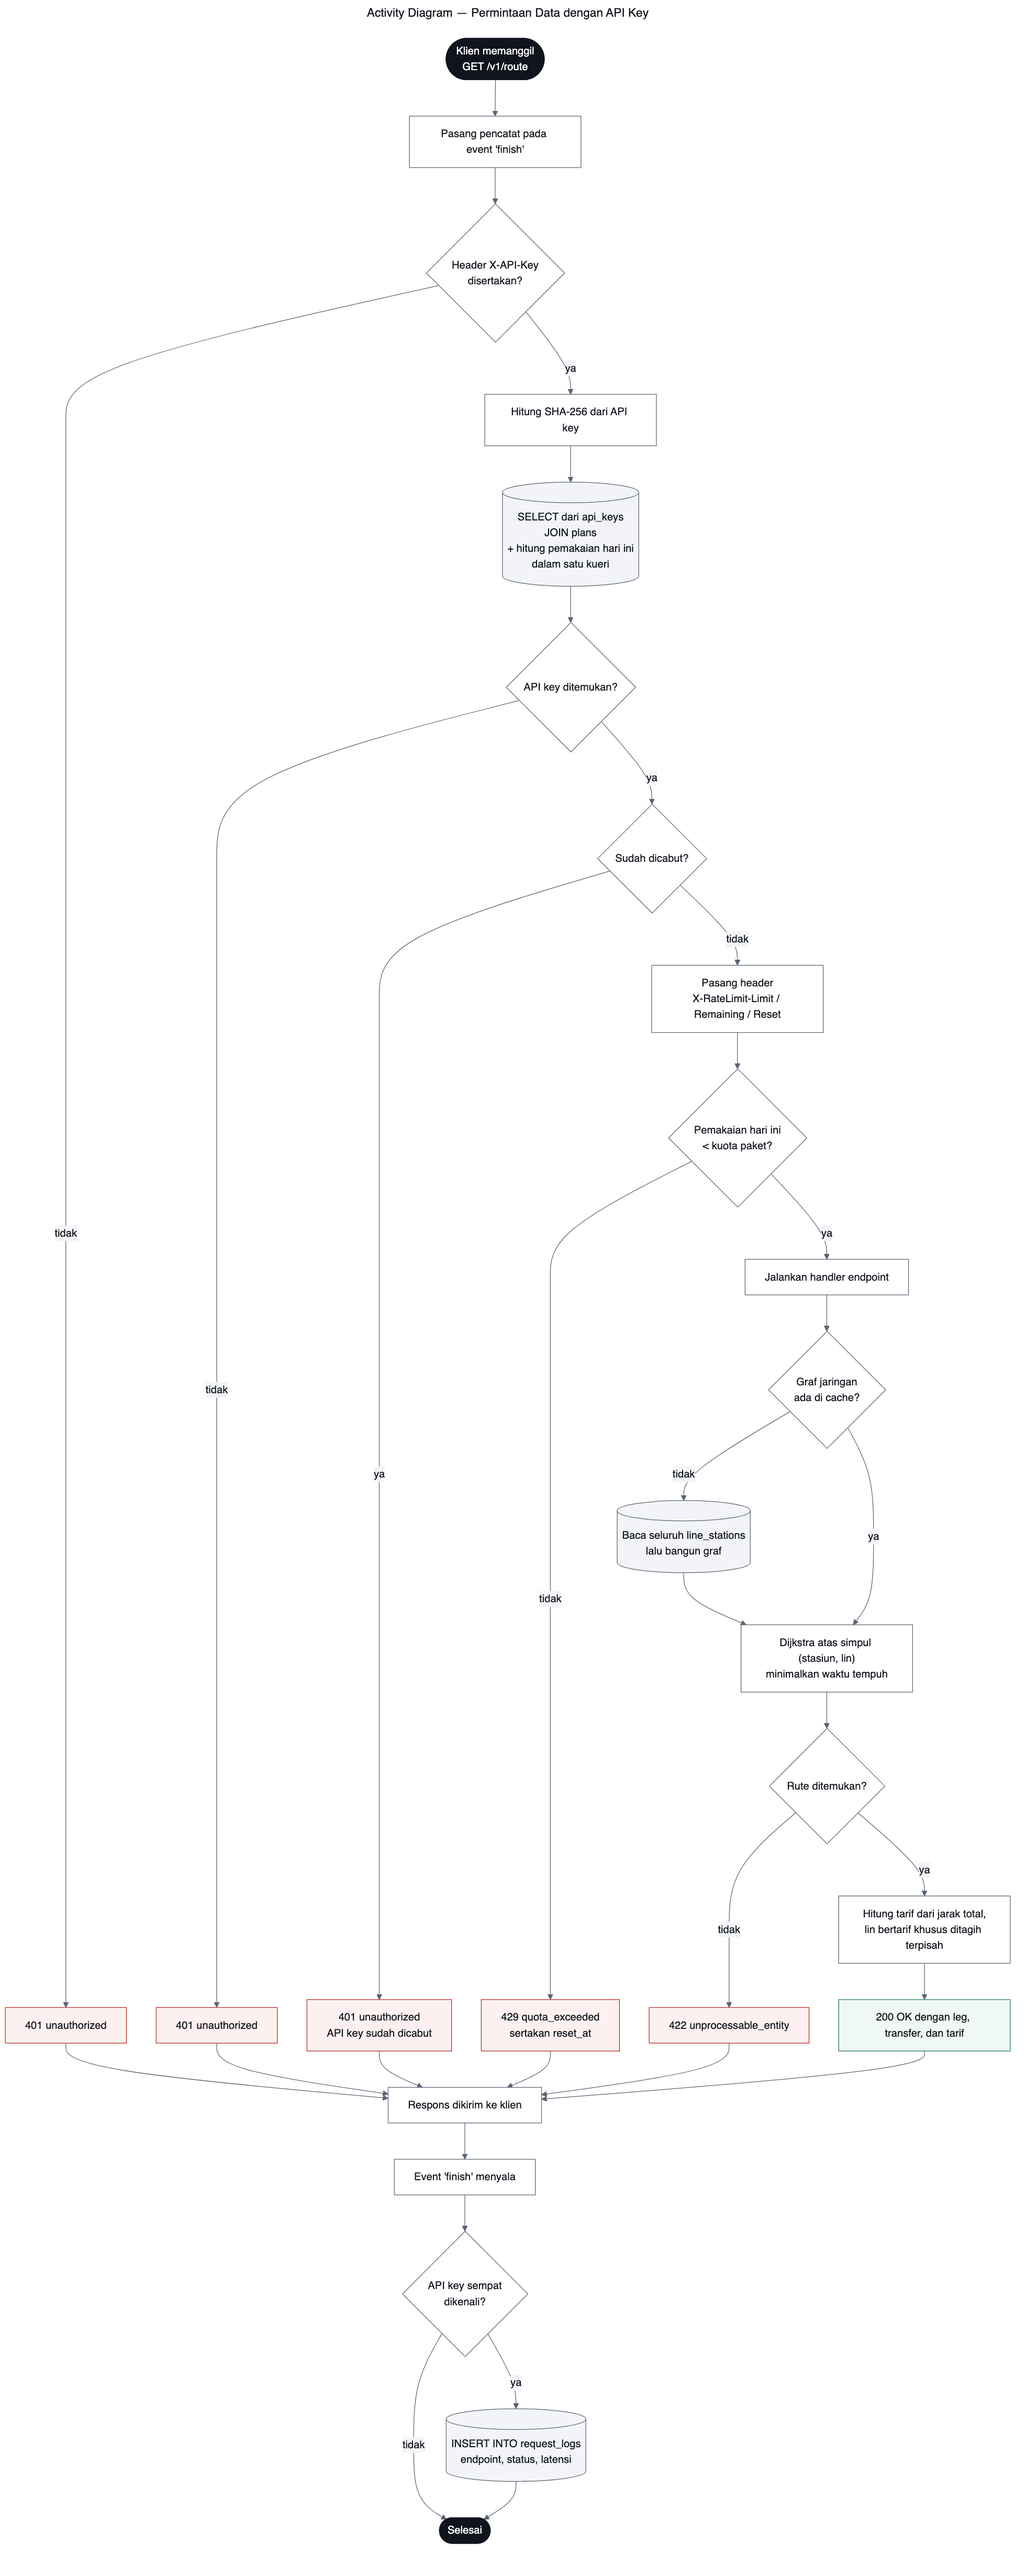
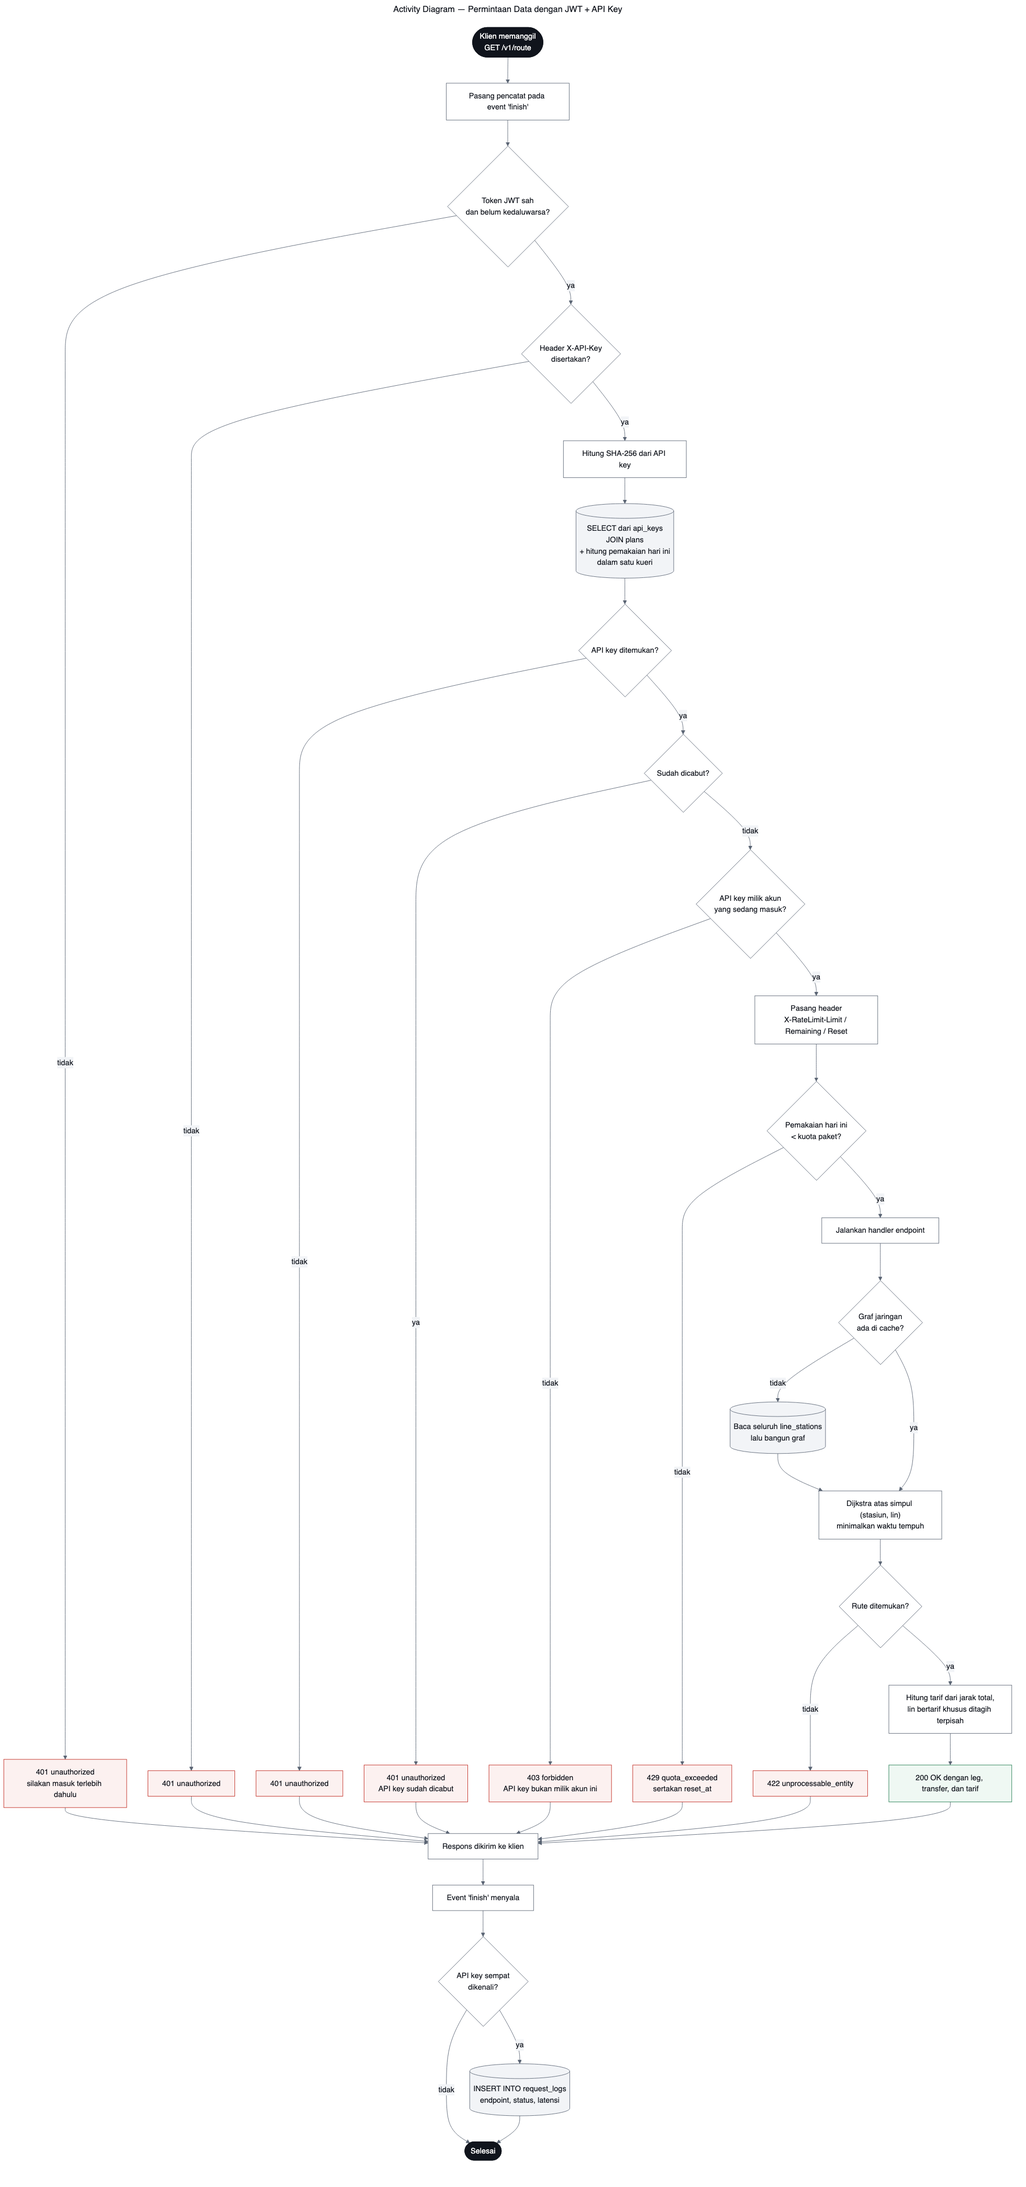
v1.3

diff --git a/src/controllers/dashboardController.js b/src/controllers/dashboardController.js
@@ -37,12 +37,19 @@ exports.registerPage = (req, res) => {
 
 /** Dashboard pemilik akun. */
 exports.dashboard = async (req, res) => {
-  const [rawKeys, plans, usage, topEndpoints] = await Promise.all([
+  const [rawKeys, plans, usage, topEndpoints, lines] = await Promise.all([
     listApiKeysForUser(req.user.id),
     listPlans(),
     getDailyUsageForUser({ userId: req.user.id, days: 7 }),
     getTopEndpointsForUser({ userId: req.user.id, limit: 5 }),
+    listLines(),
   ]);
+
+  // Penjelajah lin memakai dua bentuk data yang sama-sama sudah ada: listLines()
+  // menghasilkan persis apa yang dibalas GET /v1/lines — itulah yang ditampilkan
+  // sebagai JSON supaya bisa dicocokkan — sedangkan getLineByCode() menambahkan
+  // urutan stasiun yang dibutuhkan diagram jalurnya.
+  const lineDetails = await Promise.all(lines.map((l) => getLineByCode(l.code)));
 
   const keys = rawKeys.map((row) => ({
     id: row.id,
@@ -66,6 +73,8 @@ exports.dashboard = async (req, res) => {
     plans,
     usage,
     topEndpoints,
+    lines,
+    lineDetails,
   });
 };
 

diff --git a/public/app.css b/public/app.css
@@ -444,6 +444,38 @@ p + p { margin-top: 12px; }
   background: var(--chip-color, var(--ink));
 }
 
+/* Chip lin yang dipakai sebagai tombol pemilih di dashboard. Yang tidak
+   terpilih diredupkan, bukan diganti warnanya, supaya identitas warna tiap lin
+   tetap terbaca. */
+.linepick {
+  display: flex;
+  flex-wrap: wrap;
+  gap: 8px;
+  margin-top: 18px;
+}
+
+.linepick__chip {
+  border: 0;
+  cursor: pointer;
+  font-family: var(--font-mono);
+  font-size: 12px;
+  font-weight: 600;
+  padding: 6px 12px;
+  opacity: 0.45;
+  transition: opacity 120ms ease;
+}
+
+.linepick__chip:hover { opacity: 0.8; }
+
+.linepick__chip.is-active {
+  opacity: 1;
+  outline: 2px solid var(--ink);
+  outline-offset: 2px;
+}
+
+.linebox { margin-top: 26px; }
+.linebox[hidden] { display: none; }
+
 .chip--active { background: #e2f2e9; border-color: #b3ddc6; color: var(--ok); }
 .chip--revoked { background: #f6e4e3; border-color: #e2bcb9; color: var(--stop); }
 

diff --git a/docs/laporan.md b/docs/laporan.md
@@ -27,8 +27,9 @@ berbayar yang menjadi contoh pada tugas.
 ### 1.2 Tujuan
 
 1. Menyediakan data jaringan KRL dalam bentuk REST API yang terdokumentasi.
-2. Menerapkan dua lapis autentikasi yang berbeda peruntukan: JWT untuk manusia
-   yang mengelola akun, API key untuk program yang mengambil data.
+2. Menerapkan dua lapis autentikasi yang berbeda peruntukan — JWT membuktikan
+   siapa pemanggilnya, API key menentukan kuota siapa yang terpakai — dan
+   menuntut keduanya sekaligus pada setiap endpoint data.
 3. Menegakkan kuota pemakaian per paket langganan dan mencatat setiap permintaan.
 4. Menyediakan endpoint terhitung — pencarian rute dan perhitungan tarif — yang
    nilainya tidak sekadar menyalin isi tabel.
@@ -64,9 +65,12 @@ keberangkatan satu per satu — alasannya dijelaskan di bagian 3.3.
 | F-09 | Aplikasi klien dapat memperoleh jam keberangkatan dari sebuah stasiun | Aplikasi klien |
 | F-10 | Aplikasi klien dapat mencari rute tercepat antar dua stasiun | Aplikasi klien |
 | F-11 | Aplikasi klien dapat menghitung tarif antar dua stasiun | Aplikasi klien |
-| F-12 | Sistem menolak permintaan tanpa API key yang sah | Sistem |
+| F-12 | Sistem menolak permintaan data tanpa API key yang sah | Sistem |
 | F-13 | Sistem menolak permintaan yang melampaui kuota harian | Sistem |
 | F-14 | Sistem mencatat setiap permintaan beserta latensinya | Sistem |
+| F-15 | Sistem menuntut sesi yang masuk (token JWT) pada seluruh endpoint data | Sistem |
+| F-16 | Sistem menolak API key yang bukan milik akun yang sedang masuk | Sistem |
+| F-17 | Developer dapat menjelajah isi data lin langsung dari dashboard | Developer |
 
 ### 2.2 Kebutuhan non-fungsional
 
@@ -74,7 +78,7 @@ keberangkatan satu per satu — alasannya dijelaskan di bagian 3.3.
 |------|-----------|
 | N-01 | Kata sandi disimpan sebagai hash bcrypt, tidak pernah dalam bentuk asli |
 | N-02 | API key disimpan sebagai hash SHA-256; nilai aslinya hanya ditampilkan sekali |
-| N-03 | Token JWT berlaku satu jam dan dikirim lewat cookie httpOnly untuk peramban |
+| N-03 | Umur token JWT ditentukan `JWT_EXPIRES` (bawaan satu jam) dan dikirim lewat cookie httpOnly untuk peramban |
 | N-04 | Aplikasi berjalan sebagai satu fungsi serverless di Vercel |
 | N-05 | Basis data adalah PostgreSQL yang dilayani Supabase |
 | N-06 | Setiap balasan galat memakai bentuk JSON yang seragam |
@@ -88,21 +92,22 @@ keberangkatan satu per satu — alasannya dijelaskan di bagian 3.3.
 ### 3.1 Arsitektur
 
 ```
-Peramban (dashboard) ──JWT lewat cookie httpOnly──┐
-                                                  ├──► Aplikasi Express ──► PostgreSQL
-Aplikasi klien       ──API key: X-API-Key─────────┘    satu fungsi           (Supabase,
-(Postman, curl, dsb)                                   serverless             transaction
-                                                       di Vercel              pooler)
+Peramban (dashboard) ──JWT lewat cookie httpOnly──────────┐
+                                                          ├──► Aplikasi Express ──► PostgreSQL
+Aplikasi klien       ──JWT: Authorization: Bearer ────────┘    satu fungsi           (Supabase,
+(Postman, curl, dsb)   + API key: X-API-Key                    serverless             transaction
+                                                               di Vercel              pooler)
 ```
 
-Sistem sengaja memisahkan dua jalur autentikasi karena keduanya melayani pihak
-yang berbeda:
+Sistem memakai dua kredensial yang tugasnya berbeda, dan endpoint data menuntut
+keduanya sekaligus:
 
 | | Token JWT | API key |
 |---|---|---|
-| Dipakai oleh | manusia lewat peramban | program |
-| Umur | satu jam | sampai dicabut |
-| Untuk endpoint | `/auth/*`, `/keys/*`, halaman dashboard | `/v1/*` |
+| Dipakai oleh | manusia lewat peramban maupun program | program |
+| Membuktikan | siapa pemanggilnya | kuota siapa yang terpakai |
+| Umur | `JWT_EXPIRES` pada `.env`, bawaan satu jam | sampai dicabut |
+| Untuk endpoint | `/auth/me`, `/keys/*`, halaman dashboard, **dan** `/v1/*` | `/v1/*` |
 | Kena kuota | tidak | ya |
 | Tercatat di log | tidak | ya |
 | Cara dicabut | menunggu kedaluwarsa | dicabut kapan saja oleh pemiliknya |
@@ -111,6 +116,17 @@ Token berumur pendek karena manusia bisa masuk ulang dengan mudah. API key
 berumur panjang karena program tidak bisa. Perbedaan itulah yang menuntut
 mekanisme pencabutan pada key, dan yang membuat API key — bukan token — menjadi
 satuan penagihan kuota.
+
+Endpoint data menuntut dua-duanya karena keduanya menjawab pertanyaan yang
+berlainan: token menjawab "siapa yang memanggil", API key menjawab "kuota siapa
+yang dipotong". Sistem juga menolak kombinasi yang tidak konsisten — API key yang
+dipakai harus milik akun yang tokennya sedang dipegang, kalau tidak balasannya
+`403 forbidden`. Tanpa pemeriksaan itu, sebuah key yang bocor masih bisa dipakai
+bersama sesi akun mana pun dan kuotanya terhitung ke pemilik yang keliru.
+
+Pengelolaan API key sendiri (`/keys/*`) sengaja **tidak** menuntut API key. Kalau
+ia menuntut, pengguna baru tidak akan pernah bisa membuat key pertamanya — untuk
+meminta key ia harus sudah memegang key.
 
 ### 3.2 Entity Relationship Diagram
 
@@ -239,16 +255,33 @@ menjadi beban di jalur terpanas ini. Perlambatan itu berguna untuk kata sandi
 buatan manusia yang bisa ditebak, tetapi tidak diperlukan untuk key berisi 128
 bit acak.
 
-#### 3.5.3 Permintaan data dengan API key
+#### 3.5.3 Permintaan data dengan JWT dan API key
 
 ![Activity Diagram Permintaan API](diagrams/activity-api-request.png)
 
-Inilah alur yang paling sering dijalankan sistem. Tiga hal patut dicatat.
+Inilah alur yang paling sering dijalankan sistem. Seluruh pemeriksaannya dipasang
+terpusat satu kali di `src/routes/v1/index.js`, bukan diulang di tiap berkas
+route, sehingga berlaku untuk keenam sub-router `/v1` sekaligus:
+
+```js
+router.use(logApiRequest, requireJwt, requireApiKey, requireApiKeyOwner, enforceQuota);
+```
+
+Empat hal patut dicatat.
 
 **Pencatat dipasang paling awal.** Middleware pencatat hanya menitipkan
 pendengar pada event `finish`; isi catatannya baru dibaca setelah respons
 terkirim. Dengan urutan ini, permintaan yang ditolak karena kuota habis pun
 tetap tercatat — padahal ia tidak pernah sampai ke handler endpoint.
+
+**Gerbang JWT mendahului pemeriksaan API key.** Urutannya dipilih supaya
+pengunjung yang belum masuk memperoleh jawaban tentang sesinya ("Silakan masuk
+terlebih dahulu."), bukan jawaban tentang API key yang belum tentu ia punya.
+Konsekuensinya diterima secara sadar: permintaan yang tertahan di gerbang JWT
+belum sempat mengenali API key mana pun, sehingga ia tidak tercatat di
+`request_logs` — itulah sebabnya alur pencatatan di ujung diagram masih memakai
+percabangan "API key sempat dikenali?". Penolakan karena kuota habis tetap
+tercatat seperti sebelumnya, karena pada titik itu key-nya sudah dikenali.
 
 **Validasi API key dan hitungan kuota terjadi dalam satu kueri.** Menyatukan
 pencarian key, pengambilan kuota paket, dan penghitungan pemakaian hari ini
@@ -259,6 +292,13 @@ yang terasa besar di lingkungan serverless, tempat setiap koneksi berumur pendek
 setelah respons terkirim, dan kegagalannya hanya dilaporkan ke konsol.
 Permintaan yang sudah berhasil dilayani tidak pantas dianggap gagal hanya karena
 pencatatan bermasalah.
+
+**Kepemilikan key diperiksa terpisah dari keabsahannya.** `requireApiKey` hanya
+menjawab "key ini sah dan belum dicabut", sedangkan `requireApiKeyOwner` menjawab
+"key ini milik akun yang sedang masuk". Dipisah menjadi dua middleware supaya
+pemeriksaan keabsahan tetap bisa dipakai sendirian bila kelak dibutuhkan, dan
+supaya kedua penolakan bisa dibedakan pemanggil: `401` untuk kredensial yang
+tidak sah, `403` untuk kredensial sah yang tidak berhak.
 
 ---
 
@@ -298,18 +338,20 @@ ta-pws/
 │   │   └── time.js           batas hari waktu Jakarta untuk kuota
 │   ├── models/               network.js, users.js, apiKeys.js, logs.js
 │   ├── views/                home, login, register, dashboard, docs, error
+│   │   └── partials/         head, header, footer, endpoint
 │   ├── controllers/          station, line, schedule, route, fare, stats,
 │   │                         auth, key, dashboard
 │   ├── routes/               pemetaan path menuju controller
 │   │   ├── auth.js  keys.js  dashboard.js
 │   │   └── v1/               stations, lines, schedules, route, fare, stats
 │   ├── middleware/           jwtAuth, apiKeyAuth, quota, requestLogger, errorHandler
+│   ├── docs/                 isi halaman dokumentasi (apiReference.js)
 │   └── services/             graph, routeEngine, fareCalculator,
 │                             scheduleGenerator, apiKey, auth, networkCache
 ├── db/schema.sql             DDL sembilan tabel
 ├── db/seed.sql               data awal
 ├── scripts/db.sh             pengelola Postgres lokal
-├── tests/                    73 kasus uji
+├── tests/                    76 kasus uji
 └── docs/                     laporan dan diagram
 ```
 
@@ -449,8 +491,8 @@ Seluruh pengujian dijalankan dengan `npm test`.
 | `routeEngine.test.js` | graf jaringan dan Dijkstra, dengan jaringan fixture | 10 |
 | `auth.test.js` | pendaftaran, masuk, dan penanganan token | 9 |
 | `apiKeys.test.js` | daur hidup API key, pencabutan, kuota, pencatatan | 10 |
-| `dataEndpoints.test.js` | seluruh endpoint `/v1` dari ujung ke ujung | 23 |
-| **Total** | | **73** |
+| `dataEndpoints.test.js` | seluruh endpoint `/v1` dari ujung ke ujung, termasuk gerbang autentikasinya | 26 |
+| **Total** | | **76** |
 
 Tiga pengujian yang paling menjelaskan rancangan:
 
@@ -500,6 +542,7 @@ Environment variable yang harus diisi di Vercel:
 |------|-----|
 | `DATABASE_URL` | connection string transaction pooler Supabase |
 | `JWT_SECRET` | string acak minimal 32 karakter (`openssl rand -hex 32`) |
+| `JWT_EXPIRES` | umur token dalam detik; opsional, bawaan `3600` |
 | `NODE_ENV` | `production` |
 | `APP_URL` | URL produksi, dipakai pada contoh di halaman dokumentasi |
 
@@ -539,6 +582,37 @@ tarif: Rp6.000
 
 74 stasiun, 6 lin, 6 stasiun transit, 82 perhentian, tersebar di 14 kota dan
 kabupaten, dengan total panjang jalur 234,6 km.
+
+### 7.4 Antarmuka yang dihasilkan
+
+Selain REST API, sistem menghasilkan dua antarmuka yang keduanya dirender di
+sisi server dari sumber data yang sama dengan API-nya.
+
+**Halaman dokumentasi `/docs`.** Terbuka untuk umum dan berdiri sendiri: peta
+akses yang membedakan rute publik, rute berpagar JWT, dan rute yang menuntut JWT
+sekaligus API key; langkah pemakaian dari nol; serta referensi sembilan belas
+endpoint yang masing-masing memuat tabel parameter, contoh `curl`, dan contoh
+balasan. Isinya berasal dari `src/docs/apiReference.js`, sebuah modul data murni
+tanpa akses basis data — dipisahkan dari controller dengan alasan yang sama
+seperti `src/services/`: bagian yang panjang dan sering disunting lebih mudah
+diperiksa bila ia tidak bisa menimbulkan efek samping. Angka kuota pada halaman
+itu dibaca dari tabel `plans`, bukan ditulis tetap, sehingga tidak bisa menyimpang
+dari kuota yang sesungguhnya ditegakkan.
+
+**Penjelajah lin pada dashboard.** Enam chip berwarna sesuai identitas tiap lin;
+memilih satu menampilkan ringkasannya, diagram urutan stasiun, dan blok JSON.
+Tujuannya adalah verifikasi: JSON yang ditampilkan dicetak dari objek `listLines()`
+yang persis sama dengan yang dibalas `GET /v1/lines`, sehingga hasil di Postman
+dapat dicocokkan baris per baris dengan tampilan di dashboard, bukan dikira-kira.
+
+Bagian kedua ini juga menunjukkan satu konsekuensi rancangan yang tidak langsung
+terlihat. Setelah endpoint data menuntut API key, halaman dashboard **tidak bisa**
+memanggil `/v1/lines` dari peramban: nilai utuh API key hanya ditampilkan sekali
+saat dibuat dan sesudahnya basis data hanya memegang hash-nya, sehingga peramban
+tidak punya apa pun untuk dikirim pada header `X-API-Key`. Karena itu datanya
+dirender bersama halaman, dan pergantian lin tidak memerlukan permintaan jaringan
+sama sekali. Aturan keamanan yang dipilih di satu tempat ternyata menentukan cara
+antarmuka di tempat lain harus dibangun.
 
 ---
 
@@ -580,7 +654,10 @@ langsung.
 
 ## Lampiran A — Daftar endpoint
 
-### Memerlukan API key (`X-API-Key`)
+### Memerlukan token JWT **dan** API key (`Authorization: Bearer` + `X-API-Key`)
+
+API key yang disertakan harus milik akun yang tokennya sedang dipakai; bila tidak,
+balasannya `403 forbidden`.
 
 | Metode | Path | Keterangan |
 |--------|------|------------|
@@ -590,37 +667,44 @@ langsung.
 | GET | `/v1/lines/:code` | Detail lin dengan seluruh perhentian berurutan |
 | GET | `/v1/schedules` | Jam keberangkatan; wajib `station` |
 | POST | `/v1/route` | Rute tercepat antar stasiun beserta transfer dan tarif |
+| GET | `/v1/route` | Sama seperti di atas, parameternya lewat query string |
 | GET | `/v1/fare` | Tarif antar dua stasiun |
 | GET | `/v1/stats` | Ringkasan jaringan |
 
-### Memerlukan token JWT
+### Memerlukan token JWT saja
+
+Sengaja tanpa API key: di sinilah API key pertama dibuat.
 
 | Metode | Path | Keterangan |
 |--------|------|------------|
-| POST | `/auth/register` | Buat akun |
-| POST | `/auth/login` | Masuk |
-| POST | `/auth/logout` | Akhiri sesi |
 | GET | `/auth/me` | Profil akun |
 | GET | `/keys` | Daftar API key beserta pemakaiannya |
 | POST | `/keys` | Buat API key baru |
+| GET | `/keys/plans` | Daftar paket yang bisa dipilih |
+| GET | `/keys/usage` | Pemakaian harian seluruh key milik akun; `days` 1-30 |
 | GET | `/keys/:id/usage` | Riwayat lima puluh permintaan terakhir |
 | DELETE | `/keys/:id` | Cabut API key |
+| GET | `/dashboard` | Halaman dashboard; pengunjung anonim diarahkan ke `/login` |
 
 ### Terbuka
 
 | Metode | Path | Keterangan |
 |--------|------|------------|
+| POST | `/auth/register` | Buat akun; balasannya sudah memuat token |
+| POST | `/auth/login` | Masuk dan ambil token baru |
+| POST | `/auth/logout` | Akhiri sesi dan hapus cookie |
 | GET | `/health` | Pemeriksaan kesehatan layanan |
 | GET | `/` | Beranda |
 | GET | `/docs` | Dokumentasi API |
+| GET | `/login`, `/register` | Halaman masuk dan pendaftaran |
 
 ## Lampiran B — Kode error
 
 | HTTP | `code` | Penyebab |
 |------|--------|----------|
 | 400 | `bad_request` | Parameter kurang atau formatnya salah |
-| 401 | `unauthorized` | API key atau token tidak ada, salah, atau sudah dicabut |
-| 403 | `forbidden` | Melampaui batas sepuluh API key aktif |
+| 401 | `unauthorized` | Token atau API key tidak ada, salah, kedaluwarsa, atau sudah dicabut |
+| 403 | `forbidden` | API key bukan milik akun yang sedang masuk, atau melampaui batas sepuluh API key aktif |
 | 404 | `not_found` | Kode stasiun, lin, atau API key tidak ditemukan |
 | 409 | `conflict` | E-mail sudah terdaftar |
 | 422 | `unprocessable_entity` | Dua stasiun tidak terhubung dalam jaringan |
@@ -630,9 +714,9 @@ langsung.
 
 ```bash
 npm install
-cp .env.example .env        # isi DATABASE_URL dan JWT_SECRET
+cp .env.example .env        # isi DATABASE_URL dan JWT_SECRET; JWT_EXPIRES opsional
 npm run migrate             # buat tabel dan isi data awal
-npm test                    # 73 pengujian
+npm test                    # 76 pengujian
 npm run dev                 # http://localhost:3000
 npm run docs                # render ulang diagram menjadi PNG
 ```

diff --git a/README.md b/README.md
@@ -50,6 +50,20 @@ Aturan mainnya:
 Penjelasan lengkapnya, termasuk tiap endpoint sama contoh balasannya, ada di
 halaman `/docs` pas aplikasinya jalan.
 
+## Ngintip isi datanya dari dashboard
+
+Di bawah dashboard ada penjelajah lin: enam chip warna-warni, klik satu, keluar
+ringkasan lin + diagram urutan stasiunnya + blok JSON-nya.
+
+JSON itu dicetak dari objek yang sama persis dengan yang dibalas `GET /v1/lines`,
+jadi kamu bisa nyocokin hasil Postman sama tampilan dashboard baris per baris —
+nggak usah main tebak-tebakan angka.
+
+Kenapa datanya dirender dari server dan bukan di-fetch? Soalnya dashboard nggak
+punya API key buat dikirim. Nilai utuh key cuma muncul sekali pas dibuat, sisanya
+tinggal hash di basis data. Jadi ya, aturan keamanan di satu tempat maksa cara
+bikin UI di tempat lain.
+
 ## Jalanin di laptop sendiri
 
 ```bash
